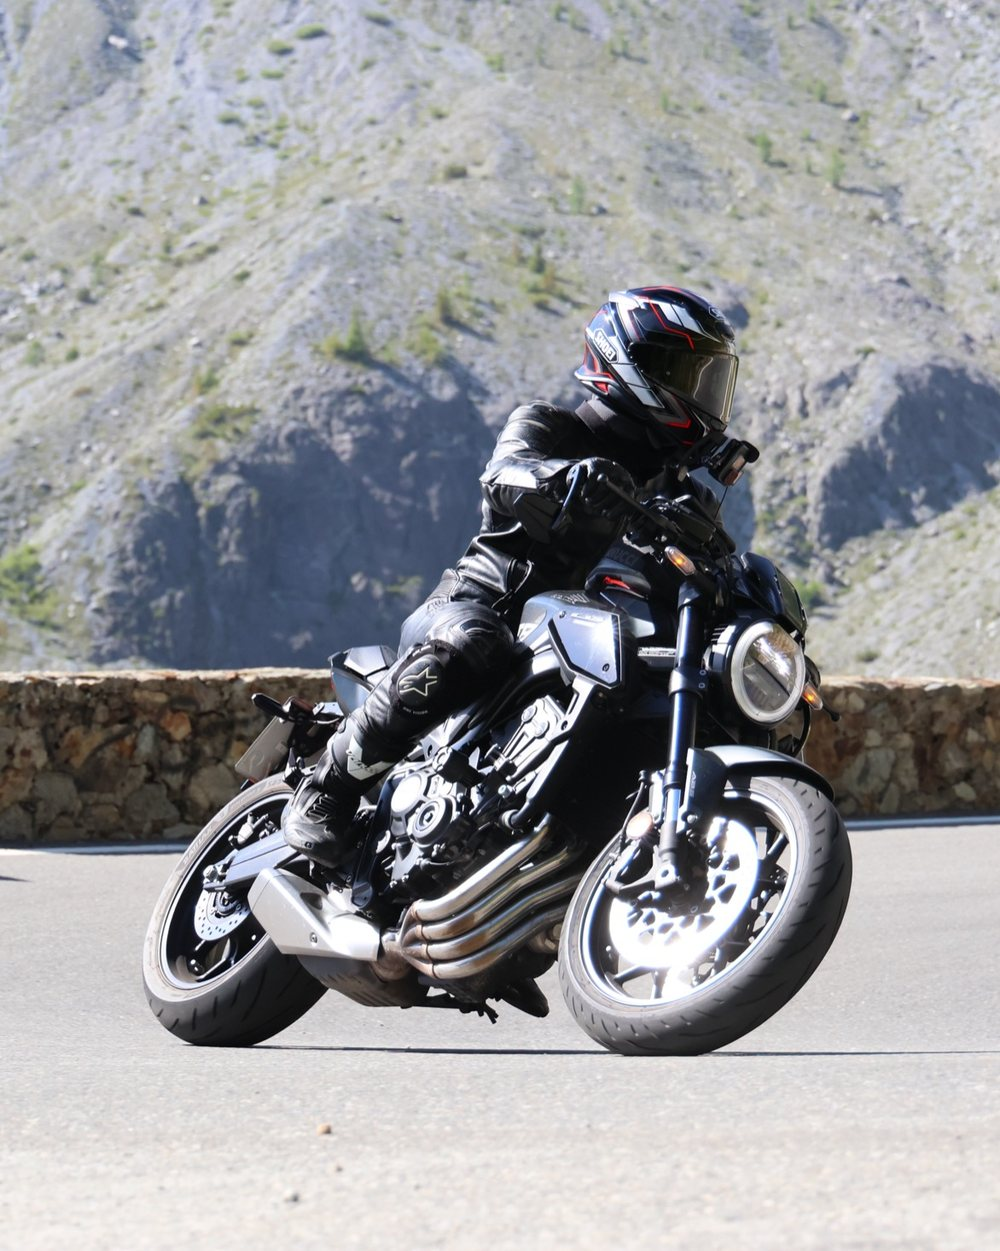
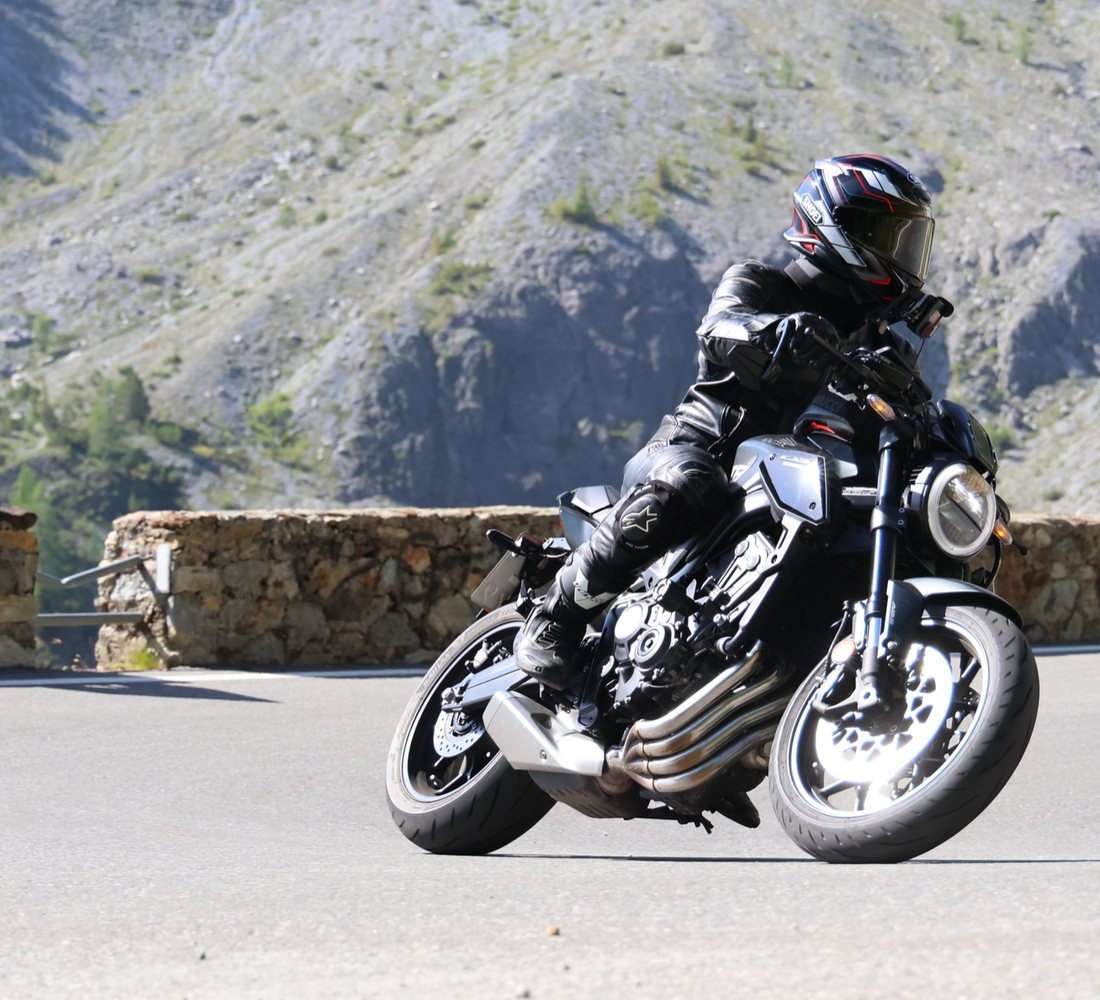
Startseite ohne Scrollen: Bild quer, Maschine rechts, Text daneben
Ziel war, dass die Startseite ohne Scrollen auskommt und das Bild
trotzdem gut eingebunden bleibt - so wie in der Vorlage. Geloest ueber den
Zuschnitt, nicht ueber kleinere Schrift.

Der Bildbereich war hochkant und brauchte damit 125 Prozent der Breite an
Hoehe. Jetzt ist der Zuschnitt quer (1100 zu 1000), also 91 Prozent. Das
sind auf einem iPhone gut 130 Pixel weniger, und genau die haben vorher
gefehlt.

Der zweite Teil ist die Komposition: Die Maschine sitzt jetzt rechts im
Bild (sie liegt darin bei 34 bis 96 Prozent der Breite), links bleiben
Strasse und Mauer frei. Dadurch kann der Schriftzug wieder AUF das Bild,
wo er keine eigene Hoehe kostet - vorher musste er darunter, weil die
mittig stehende Maschine keine ruhige Ecke liess. Der Verlauf ist deshalb
zweiteilig: nach unten fuer den Uebergang, nach rechts auslaufend, damit
er den Text traegt ohne die Maschine zuzudecken.

Die Kacheln fuellen ueber flex/1fr den verbleibenden Platz, statt eine
tote Flaeche stehen zu lassen. Obere Reihe 1.45fr, untere 1fr.

Dabei aufgefallen: .startseite erbte von .start-screen die Zentrierung
(align-items: center). Sobald sie selbst eine Flex-Spalte wurde, stauchte
das den Bildbereich auf Inhaltsbreite zusammen. Jetzt explizit auf stretch
gesetzt.

Geprueft bei 320x690, 375x812 und 430x932: kein Scrollen, kein Ueberstand,
Kacheltitel jeweils einzeilig. Alle sechs Bildschirme unveraendert
funktionsfaehig, Route ueber 74,5 km gerechnet.

diff --git a/style.css b/style.css
@@ -421,34 +421,57 @@ body.mit-nav { --nav-raum: calc(var(--nav-h) + env(safe-area-inset-bottom)); }
    Dunkle. Sie scrollt NICHT mit (position: absolute im scrollenden
    Container waere mitgescrollt) - dadurch bleibt der Eindruck, dass der
    Inhalt ueber dem Bild schwebt. */
-.startseite { background: var(--bg); display: block; overflow-y: auto; text-align: left; position: relative; }
+.startseite {
+  background: var(--bg);
+  display: flex;
+  flex-direction: column;
+  /* Beides MUSS hier stehen: .start-screen zentriert seine Kinder (das ist
+     fuer die Formularbildschirme richtig), hier wuerde das den Bildbereich
+     auf Inhaltsbreite zusammenstauchen. */
+  align-items: stretch;
+  justify-content: flex-start;
+  text-align: left;
+  position: relative;
+  overflow-y: auto;   /* Sicherheitsnetz fuer sehr kleine Bildschirme */
+}
 
 .start-hero {
   position: relative;
-  /* Die Hoehe folgt dem Seitenverhaeltnis des Fotos (1000 zu 1251, also
-     125% der Breite). Dadurch fuellt das Bild den Bereich genau aus und
-     die Maschine wird an keiner Seite angeschnitten. Die Obergrenze von
-     70vh verhindert, dass auf sehr schmalen, hohen Geraeten fast nichts
-     anderes mehr auf den Bildschirm passt. */
-  height: min(62vh, 125vw);
-  padding: 0 var(--s4);
-  background: url('img/start-hero.jpg') center top / cover no-repeat;
-  /* Der Uebergang ins Dunkle laeuft ueber die untere Haelfte und endet
-     weich, statt an einer Kante abzureissen. Die vielen Zwischenstufen
-     sind kein Zufall: mit nur zwei oder drei bilden sich in dunklen
-     Verlaeufen sichtbare Streifen. */
+  /* 91vw entspricht dem Seitenverhaeltnis des Zuschnitts (1100 zu 1000).
+     Dadurch fuellt das Foto den Bereich genau aus und wird nirgends
+     angeschnitten. Das Querformat ist der Grund, warum die Startseite ohne
+     Scrollen auskommt: hochkant brauchte der Bildbereich 125% der Breite,
+     jetzt sind es 91%. Das sind auf einem iPhone gut 130 Pixel weniger. */
+  height: min(46vh, 91vw);
+  flex: 0 0 auto;
+  display: flex;
+  flex-direction: column;
+  justify-content: space-between;
+  padding: 0 var(--s4) var(--s4);
+  background: url('img/start-hero.jpg') center / cover no-repeat;
+  /* Der Verlauf ist links dichter als rechts: dort steht der Schriftzug,
+     dort liegt aber auch die hellste Stelle des Fotos. Rechts, wo die
+     Maschine steht, bleibt er duenn, damit sie nicht zugedeckt wird. */
   --hero-fade: linear-gradient(to bottom,
-    rgba(14,15,18,0.58) 0%,
-    rgba(14,15,18,0.24) 11%,
-    rgba(14,15,18,0.08) 26%,
-    rgba(14,15,18,0.08) 52%,
-    rgba(14,15,18,0.22) 64%,
-    rgba(14,15,18,0.44) 74%,
-    rgba(14,15,18,0.66) 83%,
-    rgba(14,15,18,0.85) 91%,
-    rgba(14,15,18,0.95) 96%,
-    var(--bg) 100%);
+      rgba(14,15,18,0.60) 0%,
+      rgba(14,15,18,0.20) 16%,
+      rgba(14,15,18,0.10) 40%,
+      rgba(14,15,18,0.28) 62%,
+      rgba(14,15,18,0.58) 78%,
+      rgba(14,15,18,0.82) 90%,
+      var(--bg) 100%),
+    linear-gradient(to right,
+      rgba(14,15,18,0.55) 0%,
+      rgba(14,15,18,0.30) 34%,
+      rgba(14,15,18,0) 62%);
 }
+.start-hero::after {
+  content: "";
+  position: absolute; inset: 0;
+  background: var(--hero-fade);
+  pointer-events: none;
+}
+.start-hero > * { position: relative; z-index: 1; }
 .start-hero::after {
   content: "";
   position: absolute; inset: 0;
@@ -481,13 +504,13 @@ body.mit-nav { --nav-raum: calc(var(--nav-h) + env(safe-area-inset-bottom)); }
 .startseite-inhalt {
   position: relative;
   z-index: 1;
+  flex: 1;            /* nimmt den Platz unter dem Bild vollstaendig ein */
+  min-height: 0;
   display: flex;
   flex-direction: column;
-  gap: var(--s4);
-  padding: 0 var(--s4) var(--s5);
-  /* Der Schriftzug ruckt in den Verlauf hinein, damit Bild und Flaeche
-     ineinander uebergehen statt sich abzuloesen. */
-  margin-top: -52px;
+  gap: var(--s3);
+  padding: 0 var(--s4) var(--s3);
+  margin-top: -14px;
 }
 
 .start-kopf {
@@ -503,24 +526,25 @@ body.mit-nav { --nav-raum: calc(var(--nav-h) + env(safe-area-inset-bottom)); }
 /* Der Schriftzug ueber dem Bild. Zwischen den beiden Zeilen liegt bewusst
    ein grosser Sprung: die kleine Zeile ist die Beschriftung, die grosse
    die Ansage. */
-.start-claim { margin: 0; }
+.start-claim { margin: 0; max-width: 68%; }
 .start-claim-klein {
-  margin: 0 0 var(--s2);
+  margin: 0 0 var(--s1);
   font-family: var(--schrift-display);
-  font-size: 13px;
+  font-size: 12px;
   font-weight: 600;
   text-transform: uppercase;
-  letter-spacing: 0.22em;
-  color: rgba(255,255,255,0.82);
+  letter-spacing: 0.2em;
+  color: rgba(255,255,255,0.85);
+  text-shadow: 0 1px 8px rgba(0,0,0,0.7);
 }
 .start-claim-gross {
   margin: 0;
   font-family: var(--schrift-display);
-  font-size: clamp(30px, 10.5vw, 48px);
+  font-size: clamp(28px, 9.6vw, 44px);
   font-weight: 700;
-  line-height: 0.96;
+  line-height: 0.95;
   letter-spacing: -0.01em;
-  text-shadow: 0 2px 18px rgba(0,0,0,0.55);
+  text-shadow: 0 2px 18px rgba(0,0,0,0.6);
 }
 
 /* ---------- Kacheln ----------
@@ -531,8 +555,13 @@ body.mit-nav { --nav-raum: calc(var(--nav-h) + env(safe-area-inset-bottom)); }
    Bild und Schleier stecken in ::before und ::after, damit das HTML nicht
    mit reinen Gestaltungselementen zugestellt wird. */
 .kachel-raster {
+  flex: 1;            /* die Kacheln wachsen in den freien Platz hinein */
+  min-height: 0;
   display: grid;
   grid-template-columns: 1fr 1fr;
+  /* Die obere Reihe bekommt mehr Hoehe als die untere - sie enthaelt zwei
+     Kacheln mit mehr Text, und ein gleichmaessiges Raster waere langweilig. */
+  grid-template-rows: 1.45fr 1fr;
   gap: var(--s3);
 }
 .kachel {
@@ -542,8 +571,8 @@ body.mit-nav { --nav-raum: calc(var(--nav-h) + env(safe-area-inset-bottom)); }
   display: flex;
   flex-direction: column;
   justify-content: flex-end;
-  min-height: 200px;
-  padding: var(--s4);
+  min-height: 116px;
+  padding: var(--s3);
   border-radius: 22px;
   border: 1px solid rgba(255, 255, 255, 0.16);
   background: var(--surface-2);
@@ -585,13 +614,13 @@ body.mit-nav { --nav-raum: calc(var(--nav-h) + env(safe-area-inset-bottom)); }
 .kachel:hover::before { transform: scale(1.06); }
 .kachel:active { transform: scale(0.985); }
 
-.kachel--breit { grid-column: 1 / -1; min-height: 160px; }
+.kachel--breit { grid-column: 1 / -1; min-height: 88px; }
 .kachel--breit .kachel-titel { font-size: clamp(18px, 5.6vw, 24px); }
 
 .kachel-inhalt {
   display: flex;
   flex-direction: column;
-  gap: var(--s3);
+  gap: var(--s2);
   min-width: 0;              /* ohne das bricht langer Text nicht um, sondern
                                 schiebt die Kachel breiter */
 }
@@ -624,7 +653,7 @@ body.mit-nav { --nav-raum: calc(var(--nav-h) + env(safe-area-inset-bottom)); }
 
 .kachel-pfeil {
   position: absolute;
-  right: var(--s4); bottom: var(--s4);
+  right: var(--s3); bottom: var(--s3);
   color: var(--accent);
   font-size: 20px;
   line-height: 1;

diff --git a/index.html b/index.html
@@ -38,10 +38,10 @@
        durchgehend alte Version, weil die Seite dann Elemente enthält, die
        das Skript noch gar nicht kennt.
 
-       Für den Browser ist "app.js?v=11" eine andere Adresse als "app.js?v=10",
+       Für den Browser ist "app.js?v=12" eine andere Adresse als "app.js?v=11",
        er holt sie also frisch. Wichtig: BEI JEDER VERÖFFENTLICHUNG die Zahl
        an allen drei Stellen um eins erhöhen. -->
-  <link rel="stylesheet" href="style.css?v=11">
+  <link rel="stylesheet" href="style.css?v=12">
 </head>
 <body>
 
@@ -108,11 +108,14 @@
        Vorlage bleiben bewusst weg - es gibt nur, was auch funktioniert. -->
   <div id="startMenu" class="start-screen startseite">
 
-    <!-- Der Bildbereich enthaelt Kopfzeile und Schriftzug, damit beide
-         garantiert AUF dem Bild sitzen und nicht daneben rutschen, wenn
-         sich die Bildschirmhoehe aendert. Seine Hoehe folgt dem
-         Seitenverhaeltnis des Fotos (siehe .start-hero in style.css) -
-         dadurch wird die Maschine nie angeschnitten. -->
+    <!-- Der Bildbereich traegt Kopfzeile UND Schriftzug. Beides liegt auf
+         dem Foto, so wie in der Vorlage - das spart die Hoehe, die der
+         Schriftzug sonst darunter braeuchte, und genau daran scheiterte
+         vorher das Ziel "ohne Scrollen".
+
+         Moeglich wird das durch den Zuschnitt: Die Maschine sitzt rechts,
+         links bleibt Strasse und Mauer frei. Darauf steht der Text, ohne
+         etwas zu verdecken. -->
     <div class="start-hero">
       <header class="start-kopf">
         <div>
@@ -124,18 +127,13 @@
         </button>
       </header>
 
-    </div>
-
-    <div class="startseite-inhalt">
-
-      <!-- Der Schriftzug steht UNTER dem Bild, nicht darauf. Grund: Auf dem
-           Foto sitzt die Maschine mittig, es gibt also keine ruhige Ecke
-           fuer Text. Im Verlauf darunter liegt er frei und das Motorrad
-           bleibt unverdeckt. -->
       <div class="start-claim">
         <p class="start-claim-klein">Mehr Kurven. Mehr Freiheit.</p>
         <p class="start-claim-gross">Dein Ride.<br>Deine App.</p>
       </div>
+    </div>
+
+    <div class="startseite-inhalt">
 
       <div class="kachel-raster">
         <button class="kachel" id="btnStartPlaner" style="--kachel-bild: url('img/kacheln/routenplaner.jpg')">
@@ -635,9 +633,9 @@
     </button>
   </nav>
 
-  <script src="app.js?v=11"></script>
+  <script src="app.js?v=12"></script>
   <!-- Nach app.js, weil konto.js beim Verkabeln showToast() und
        zeigeBildschirm() von dort benutzt. -->
-  <script src="konto.js?v=11"></script>
+  <script src="konto.js?v=12"></script>
 </body>
 </html>
